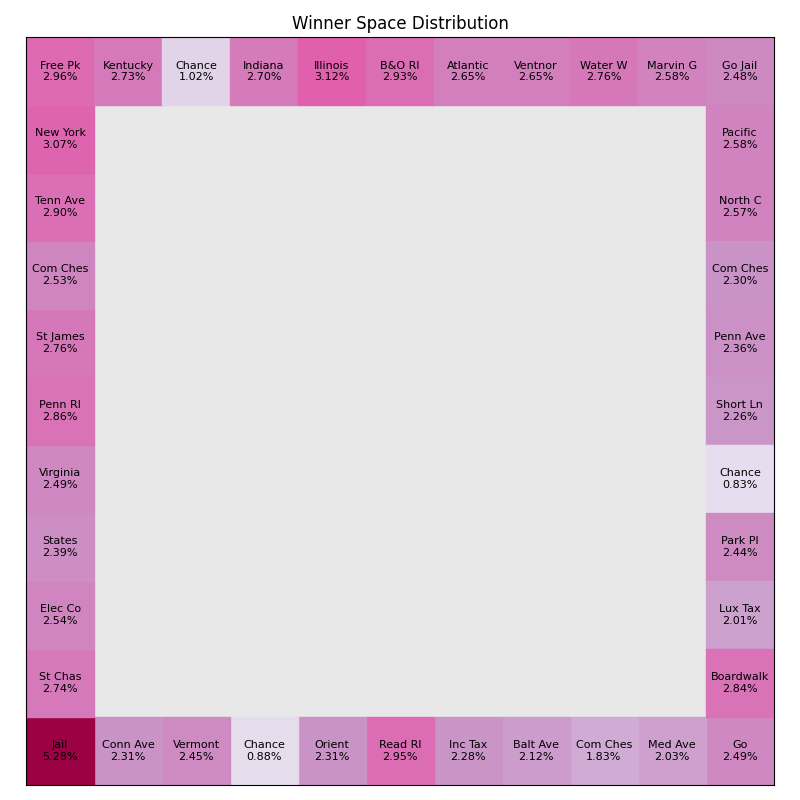
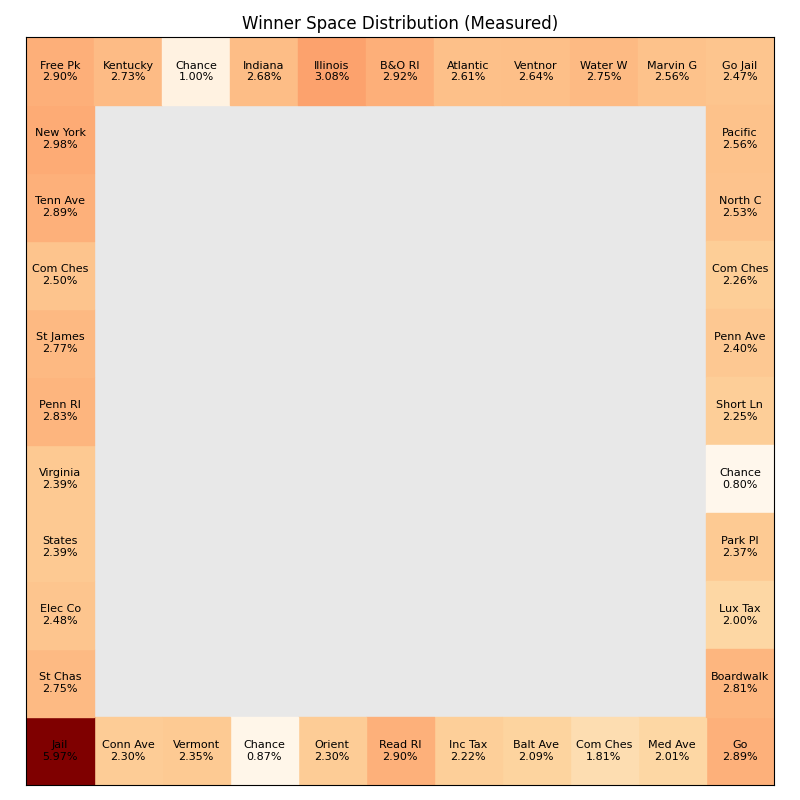
Lots of stats and graphics

Changed region(s): [[0.0312, 0.0, 0.9688, 1.0]]

diff --git a/Monopoly/MonopolyBoard.py b/Monopoly/MonopolyBoard.py
@@ -4,7 +4,7 @@ import csv
 from random import shuffle, randint
 from time import sleep
 
-from .Player import BasePlayer, AI_Jillian
+from .Player import BasePlayer, AI_J, AI_G
 
 DIR_CHANCE = f'{path.Path(__file__).abspath().parent}\\Data\\chance.csv'
 DIR_COMMCHEST = f'{path.Path(__file__).abspath().parent}\\Data\\communitychest.csv'
@@ -256,15 +256,12 @@ class MonopolyBoard():
         if space == 'go':
             #Nothing happens.
             turn_log.append(f'{p.name} landed on Go.')
-            self.player_space_distributions[p][p.current_space] += 1
         elif space == 'jail':
             #Player is just visiting
             turn_log.append(f'{p.name} is just visiting jail.')
-            self.player_space_distributions[p][p.current_space] += 1
         elif space == 'park':
             #Have the player claim money if there is any
             turn_log.append(f'{p.name} landed on Free Parking.')
-            self.player_space_distributions[p][p.current_space] += 1
             if self.park_money > 0:
                 p.money = p.money + self.park_money
                 p.liquidity = p.liquidity + self.park_money
@@ -276,11 +273,9 @@ class MonopolyBoard():
             p.in_jail = True
             p.jail_turns = 0
             p.current_space = 10
-            self.player_space_distributions[p][p.current_space] += 1
             rolled_doubles = False
             turn_log.append(f'{p.name} landed on Go To Jail and has been sent straight to jail.')
         elif space == 'income-tax':
-            self.player_space_distributions[p][p.current_space] += 1
             #Handle a possible transaction
             turn_log.append(f'{p.name} landed on Income Tax.')
             #Check liquidity
@@ -300,7 +295,6 @@ class MonopolyBoard():
                 turn_log.append(f'{p.name} chose not to liquidate assets and is now bankrupt.')
                 self.resolve_bankruptcy(p, None, turn_log)
         elif space == 'luxury-tax':
-            self.player_space_distributions[p][p.current_space] += 1
             #Handle a possible transaction
             turn_log.append(f'{p.name} landed on Luxury Tax.')
             #Check liquidity
@@ -388,15 +382,11 @@ class MonopolyBoard():
                 turn_log.append(f'{p.name} has passed Go and collected $200')
                 p.current_space = 0
                 turn_log.append(f'{p.name} landed on Go.')
-                self.player_space_distributions[p][0] += 1
             elif card.goto == 'jail':
                 p.current_space = 10
                 p.in_jail = True
                 p.jail_turns = 0
                 turn_log.append(f'{p.name} landed in Jail.')
-                self.player_space_distributions[p][10] += 1
-            else:
-                self.player_space_distributions[p][p.current_space] += 1
             
             #Handle the get out of jail free card
             if card.payer is None and card.payee is None and card.goto is None:
@@ -416,20 +406,17 @@ class MonopolyBoard():
                 if card.goto == 'none':
                     if card.amount == 0:
                         p.get_out_of_jail += 1
-                        self.player_space_distributions[p][p.current_space] += 1
                     else:
                         p.current_space = (p.current_space - 3) % 40
                         self.resolve_space(self.board[p.current_space], p, turn_log)
                 else:
                     if card.goto == 'go':
                         p.current_space = 0
-                        #self.player_space_distributions[p][p.current_space] += 1
                         turn_log.append(f'{p.name} passed Go and collected $200.')
                     elif card.goto == 'jail':
                         p.current_space = 10
                         p.in_jail = True
-                        p.jail_turns = 3
-                        #self.player_space_distributions[p][p.current_space] += 1
+                        p.jail_turns = 0
                         turn_log.append(f'{p.name} was sent to jail.')
                     elif card.goto == 'utility':
                         passed_go = False
@@ -444,7 +431,6 @@ class MonopolyBoard():
                             p.money += 200
                             p.liquidity += 200
                             turn_log.append(f'{p.name} passed Go and collected $200')
-                        #self.player_space_distributions[p][p.current_space] += 1
                         self.resolve_space(self.board[p.current_space], p, turn_log)
                     elif card.goto == 'railroad':
                         passed_go = False
@@ -463,7 +449,6 @@ class MonopolyBoard():
                             p.money += 200
                             p.liquidity += 200
                             turn_log.append(f'{p.name} passed Go and collected $200.')
-                        #self.player_space_distributions[p][p.current_space] += 1
                         self.resolve_space(self.board[p.current_space], p, turn_log)
                     elif card.goto == 'Illinois Avenue':
                         if p.current_space >= 24:
@@ -471,7 +456,6 @@ class MonopolyBoard():
                             p.liquidity += 200
                             turn_log.append(f'{p.name} passed Go and collected $200.')
                         p.current_space = 24
-                        #self.player_space_distributions[p][p.current_space] += 1
                         self.resolve_space(self.board[p.current_space], p, turn_log)
                     elif card.goto == 'St. Charles Place':
                         if p.current_space >= 11:
@@ -479,7 +463,6 @@ class MonopolyBoard():
                             p.liquidity += 200
                             turn_log.append(f'{p.name} passed Go and collected $200.')
                         p.current_space = 11
-                        #self.player_space_distributions[p][p.current_space] += 1
                         self.resolve_space(self.board[p.current_space], p, turn_log)
                     elif card.goto == 'Reading Railroad':
                         if p.current_space >= 5:
@@ -487,7 +470,6 @@ class MonopolyBoard():
                             p.liquidity += 200
                             turn_log.append(f'{p.name} passed Go and collected $200.')
                         p.current_space = 5
-                        #self.player_space_distributions[p][p.current_space] += 1
                         self.resolve_space(self.board[p.current_space], p, turn_log)
                     elif card.goto == 'Boardwalk':
                         if p.current_space >= 39:
@@ -495,10 +477,8 @@ class MonopolyBoard():
                             p.liquidity += 200
                             turn_log.append(f'{p.name} passed Go and collected $200.')
                         p.current_space = 39
-                        #self.player_space_distributions[p][p.current_space] += 1
                         self.resolve_space(self.board[p.current_space], p, turn_log)
             else:
-                self.player_space_distributions[p][p.current_space] += 1
                 if card.payee == 'self':
                     p.money += card.amount
                     p.liquidity += card.amount
@@ -545,7 +525,6 @@ class MonopolyBoard():
                             turn_log.append(f'{p.name} chose not to liquidate and has gone bankrupt.')
                             self.resolve_bankruptcy(p, None, turn_log)
         elif isinstance(space, Utility) or isinstance(space, Property) or isinstance(space, RailRoad):
-            self.player_space_distributions[p][p.current_space] += 1
             turn_log.append(f'{p.name} landed on {space.name}.')
             if space.owner is None:
                 if not self.purchase_property(space, p, turn_log):
@@ -640,14 +619,15 @@ class MonopolyBoard():
             
             #Check if player is bankrupt for good measure or still in jail
             if p.bankrupt or p.in_jail:
-                if p.in_jail:
-                    self.player_space_distributions[p][10] += 1
                 continue
 
             #Now we need to perform turns until we hit a stopping condition
             doubles_count = 0
             rolled_doubles = False
             while True:
+                #Record the space we are on at the start of this roll
+                if self.current_turn > 1:
+                    self.player_space_distributions[p][p.current_space] += 1
                 #If we have a valid jail roll, use that otherwise make a roll
                 roll = jail_roll
                 if roll is None:

diff --git a/graphics.py b/graphics.py
@@ -26,27 +26,36 @@ coords = [(10,0), (9,0), (8,0), (7,0), (6,0), (5,0), (4,0), (3,0), (2,0), (1,0),
           (10,9), (10,8), (10,7), (10,6), (10,5), (10,4), (10,3), (10,2), (10,1)]
 
 # Distributions overall measured
-percent_overall = [0.025936050209347312, 0.02091559462399479, 0.01851101265701852, 0.021301745309358938, 0.02301022178874452, 0.029232340209008698, 0.022404511263741152, 0.008559795259792172, 0.02302962135408323, 0.022825458458620974, 0.053336037196446105, 0.026714925227968995, 0.025676434941877706, 0.0234599177370781, 0.024287116371769415, 0.028886449464964953, 0.027571690670074134, 0.025679327346950796, 0.02893453935133171, 0.030509673035226486, 0.02845711721699445, 0.02800376924205343, 0.010330589921207087, 0.026985759521176655, 0.03141154830998671, 0.030270187738417078, 0.026707416661264104, 0.026437663367932244, 0.02765118798526486, 0.025503796340090857, 0.025978793528760775, 0.026336896649779794, 0.02586745054155318, 0.023301974890359588, 0.02459768471446601, 0.023963196219796024, 0.008564908097042585, 0.021523408716324043, 0.02148402526138942, 0.0258401625987424]
+percent_overall = [0.030134237256964944, 0.020679554796452136, 0.018307393507967618, 0.021069143856236844, 0.022718558235145965, 0.028933991050541483, 0.02209175015852867, 0.008469995389910926, 0.022696494036356082, 0.022484313841972223, 0.06054407483991399, 0.026411163629744376, 0.02540048470192928, 0.023152275692510438, 0.02398615223159299, 0.028529297833731763, 0.027216218087161615, 0.025331173082694048, 0.02863320750290192, 0.03011740030945905, 0.028082122370299115, 0.027666656972666587, 0.010206222571912177, 0.02662880211414301, 0.031042883705297508, 0.029867965119736255, 0.026355656574673494, 0.02614864587189093, 0.02736503590962793, 0.025175135299890728, 0.02562366811586673, 0.026029632045695764, 0.025568969696353593, 0.023017840031035432, 0.024295224293699437, 0.02367907287853956, 0.00844564968365455, 0.021236675815896673, 0.021186309372585737, 0.025470951514818433]
 
-percent_steady = [0.02978677719743399, 0.020799923403571202, 0.018489717563758726, 0.02107146879502474, 0.02263477558740769, 0.028839570968337856, 0.02196207937177183, 0.008412714781191212, 0.022537929364383855, 0.022379114181934175, 0.06111341208315677, 0.026281562743575855, 0.025322823284591865, 0.023097133117132067, 0.0239888196476139, 0.02843325264271593, 0.027197395314781016, 0.02549736430072683, 0.02859497785485687, 0.030043295785026597, 0.02808654715493613, 0.02761715069348468, 0.010207851413554694, 0.026634767019322377, 0.031026016988278782, 0.029854180767789423, 0.026363271130967546, 0.026077694076659882, 0.027332479634587226, 0.025164647893457685, 0.025641353502926467, 0.026045963279504418, 0.025525512990989055, 0.023380987102005767, 0.024308965845350746, 0.023680937172942552, 0.008435935858793753, 0.021310344944218546, 0.021215951448901788, 0.025605333092381583]
+percent_steady = [0.02979520722881103, 0.020805810042658395, 0.018494950385630735, 0.021077432284862006, 0.022641181512666038, 0.02884773292847713, 0.021968294915567718, 0.008415095684942616, 0.02254430788094695, 0.0223854477518096, 0.06084769540815935, 0.02628900075531833, 0.025329989961047978, 0.023103669895367808, 0.023995608784316627, 0.028441299609675143, 0.027205092518622756, 0.02550458037447871, 0.02860307059207864, 0.030051798414379813, 0.028094495999895733, 0.02762496669336098, 0.01021074036347828, 0.02664230499230296, 0.031034797740052703, 0.029862629875221876, 0.02637073226720803, 0.026085074391013797, 0.027340215068984992, 0.025171769804295082, 0.0256486103274277, 0.026053334613644907, 0.025532737031173154, 0.02338760421447785, 0.02431584558744104, 0.023687639175045076, 0.008438323334401228, 0.02131637603900079, 0.021221955829141454, 0.025612579722655064]
 
-percent_winners = [0.024943094696139964, 0.020343050886198918, 0.018295412337260356, 0.021219249707140068, 0.022822439578789638, 0.02954313850608101, 0.02309228341857224, 0.00877151210963914, 0.024536741619761458, 0.023089108785163032, 0.05277828042806757, 0.027432007288958307, 0.025365320939564503, 0.023939910538830527, 0.02492404689568472, 0.0286415426178662, 0.027571691158963418, 0.025285955104334328, 0.028978053759242152, 0.030698705067032383, 0.02961932970790198, 0.027330419019863682, 0.010244542011511221, 0.02701613031235218, 0.031165376178185825, 0.029279643933116824, 0.02646374409915015, 0.026473267999377773, 0.02761296139328311, 0.025822468150490323, 0.024806585459544058, 0.025762150115715386, 0.025743102315260145, 0.022997044416296027, 0.02358117696359013, 0.022622437674009593, 0.008285793198030458, 0.024368486049073483, 0.02012082654755442, 0.028412969012403293]
+percent_winners = [0.028914462052782152, 0.020077790992960236, 0.018071940595969012, 0.020865344434086597, 0.022225079558970073, 0.028985181137291458, 0.02297727345784178, 0.008666302356231316, 0.023536597126233565, 0.02297727345784178, 0.05969012182969559, 0.0275065093702787, 0.024809540647401075, 0.02386769102189077, 0.02391269407566942, 0.028252274261467744, 0.02766080555466264, 0.02499919637403967, 0.028888746022051496, 0.02978559259378315, 0.029026969687228777, 0.02729113761290945, 0.010029251984956121, 0.02683789257128162, 0.030836735349898742, 0.02917483686393005, 0.026137130733871226, 0.026436079591115113, 0.027455077308817383, 0.025558520042431452, 0.024748465074415762, 0.025568163553955445, 0.0252627856890289, 0.022636536050660582, 0.02395769712944807, 0.02251438490468996, 0.007978398534186248, 0.02371339483750683, 0.020045645954546915, 0.028120479603973125]
 
+percent_win_v_overall = []
+percent_overall_v_steady = []
+for i in range(len(percent_overall)):
+    percent_win_v_overall.append(percent_winners[i]-percent_overall[i])
+    percent_overall_v_steady.append((percent_steady[i]-percent_overall[i]))
 # Space names
-board_layout = ["Go","Med Ave","Com Ches","Balt Ave","Inc Tax","Read Rl","Orient","Chance","Vermont","Conn Ave","Jail","St Chas","Elec Co","States","Virginia","Penn Rl","St James","Com Ches","Tenn Ave","New York","Free Pk","Kentucky","Chance","Indiana","Illinois","B&O Rl","Atlantic","Ventnor","Water W","Marvin G","Go Jail","Pacific","North C","Com Ches","Penn Ave","Short Ln","Chance","Park Pl","Lux Tax","Boardwalk"
-]
+board_layout = ["Go","Med Ave","Com Ches","Balt Ave","Inc Tax","Read Rl","Orient","Chance","Vermont","Conn Ave","Jail","St Chas","Elec Co","States","Virginia","Penn Rl","St James","Com Ches","Tenn Ave","New York","Free Pk","Kentucky","Chance","Indiana","Illinois","B&O Rl","Atlantic","Ventnor","Water W","Marvin G","Go Jail","Pacific","North C","Com Ches","Penn Ave","Short Ln","Chance","Park Pl","Lux Tax","Boardwalk"]
 
-# Define the colormap (using 'inferno' colormap)
-cmap = plt.cm.PuRd
+data = percent_overall_v_steady
+
+# Define the colormap (using 'inferno' or PuRd colormap)
+cmap = plt.cm.OrRd
 
 # Normalize the numbers to range from 0 to 1
-norm = Normalize(vmin=0, vmax=max(percent_steady))
+if data is percent_win_v_overall:
+    norm = Normalize(vmin=min(data), vmax=max(data))
+else:
+    norm = Normalize(vmin=min(data), vmax=max(data))
 
 # Create a scalar mappable
 sm = ScalarMappable(norm=norm, cmap=cmap)
 
 # Map the numbers to colors
-data = percent_overall
+
 colors = [sm.to_rgba(number) for number in data]
 
 for i, coord in enumerate(coords):
@@ -64,7 +73,7 @@ ax.set_yticklabels("")
 ax.set_aspect('equal')
 
 # Show the plot
-plt.title('Measured Space Distribution')
+plt.title('Steady State vs Measured Space Distribution')
 # plt.grid(True)
 plt.tick_params(left = False, bottom = False)
 plt.tight_layout()

diff --git a/main.py b/main.py
@@ -1,9 +1,11 @@
-from Monopoly import MonopolyBoard, PlayerList, BasePlayer, AI_Jillian, Chance, CommunityChest, AI_George
+from Monopoly import MonopolyBoard, PlayerList, BasePlayer, AI_J, Chance, CommunityChest, AI_G
 from statistics import mean, stdev
 import numpy as np
 
 def generate_stats(m: MonopolyBoard, game_count: int = 10_000, turn_limit: int = 200) -> None:
     terminate_count = 0
+    longest_game = 0
+    shortest_game = turn_limit+1
     terminate_turns = []
     space_distribution_overall = [0]*40
     space_distribution_per_player = {}
@@ -21,6 +23,11 @@ def generate_stats(m: MonopolyBoard, game_count: int = 10_000, turn_limit: int =
         if m.current_turn < turn_limit:
             terminate_count += 1
             terminate_turns.append(m.current_turn)
+            t = m.current_turn
+            if t < shortest_game:
+                shortest_game = t
+            if t > longest_game:
+                longest_game = t
         
         #Handle the overall space distribution
         for p in m.players:
@@ -42,6 +49,7 @@ def generate_stats(m: MonopolyBoard, game_count: int = 10_000, turn_limit: int =
     #Now present all findings
     print(f'Exactly {terminate_count} games out of {game_count} actually terminated. ({terminate_count / game_count})\n')
     print(f'Mean turn count for terminated games: {mean(terminate_turns)}, Standard Deviation: {stdev(terminate_turns)}')
+    print(f'The longest game was {longest_game} turns, and the shortest game was {shortest_game} turns.')
 
     #Now we need to turn distributions into percentages
     overall_s = sum(space_distribution_overall)
@@ -61,8 +69,16 @@ def generate_stats(m: MonopolyBoard, game_count: int = 10_000, turn_limit: int =
     z_score = [(v - mean(space_distribution_overall)) / stdev(space_distribution_overall) for v in space_distribution_overall]
 
     M = create_transition_matrix()
-    v = create_initial_vector()
-    b = (M**2000)*v
+    # v = create_initial_vector()
+    # b = (M**2000)*v
+
+    w, v = np.linalg.eig(M)
+
+    ev = v[:,0]
+    b = []
+    s = float(np.real(sum(ev)))
+    for i in range(len(ev)):
+        b.append(float(float(np.real(ev[i])) / s))
 
     s = f'{" "*25}{"Z-Score": ^10}{"Overall": ^10}{"Markov": ^10}{"Winners": ^10}{"Bankrupt": ^10}\n'
     for i in range(40):
@@ -83,12 +99,12 @@ def generate_stats(m: MonopolyBoard, game_count: int = 10_000, turn_limit: int =
     st = []
     for i in list(b):
         st.append(float(i))
-    print(f'Steady State Distribution:')
-    print(st)
-    print(f'Measured Distribution:')
-    print(space_distribution_overall)
-    print(f'Winner Distribution:')
-    print(space_distribution_winners)
+    # print(f'Steady State Distribution:')
+    # print(st)
+    # print(f'Measured Distribution:')
+    # print(space_distribution_overall)
+    # print(f'Winner Distribution:')
+    # print(space_distribution_winners)
 
 def create_transition_matrix():
     P = [0,0,1,2,3,4,5,6,5,4,3,2,1]
@@ -101,7 +117,6 @@ def create_transition_matrix():
         for j in range(2, 13):
             v = (i+j) % 40
             p = (1 - (6/36)**3) * P[j] / 36
-            # p = P[j] / 36
             if v in [2,17,33]:
                 M[v][i] += p*15/17
                 M[0][i] += p*1/17

diff --git a/Monopoly/Player/Player.py b/Monopoly/Player/Player.py
@@ -1,7 +1,7 @@
 from .BasePlayer import BasePlayer
 from random import randint
 
-class AI_Jillian(BasePlayer):
+class AI_J(BasePlayer):
     def roll_dice(self, turn_log: list[str]) -> tuple[int, int]:
         return super().roll_dice(turn_log)
     
@@ -49,7 +49,7 @@ class AI_Jillian(BasePlayer):
     def liquidate(self, amount: int, turn_log: list[str]) -> bool:
         return super().liquidate(amount, turn_log)
     
-class AI_George(BasePlayer):
+class AI_G(BasePlayer):
     def should_buy_property(self, property) -> bool:
         if self.money >= property.price + 500:
             return True

diff --git a/Monopoly/Player/BasePlayer/BasePlayer.py b/Monopoly/Player/BasePlayer/BasePlayer.py
@@ -107,7 +107,7 @@ class BasePlayer():
         Returns:
             bool: True/False depending on decision.
         """
-        if self.money >= 50:
+        if self.liquidity >= 50:
             return True
         return False
     

diff --git a/Monopoly/__init__.py b/Monopoly/__init__.py
@@ -1,2 +1,2 @@
 from .MonopolyBoard import MonopolyBoard, PlayerList, Chance, CommunityChest
-from .Player import BasePlayer, AI_Jillian, AI_George
+from .Player import BasePlayer, AI_J, AI_G

diff --git a/Monopoly/Player/__init__.py b/Monopoly/Player/__init__.py
@@ -1,1 +1,1 @@
-from .Player import BasePlayer, AI_Jillian, AI_George
+from .Player import BasePlayer, AI_J, AI_G
